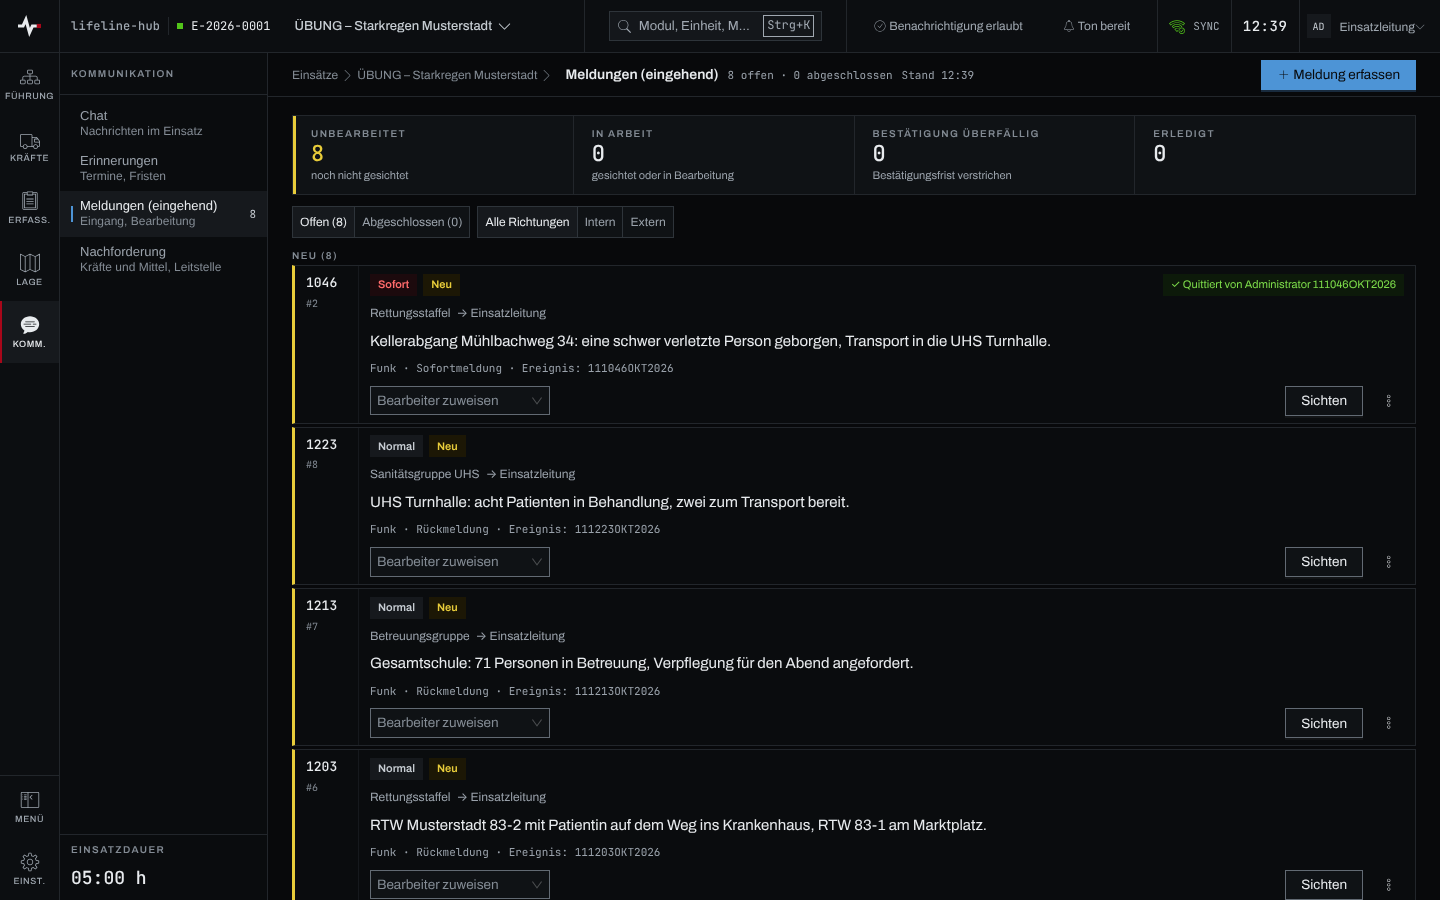
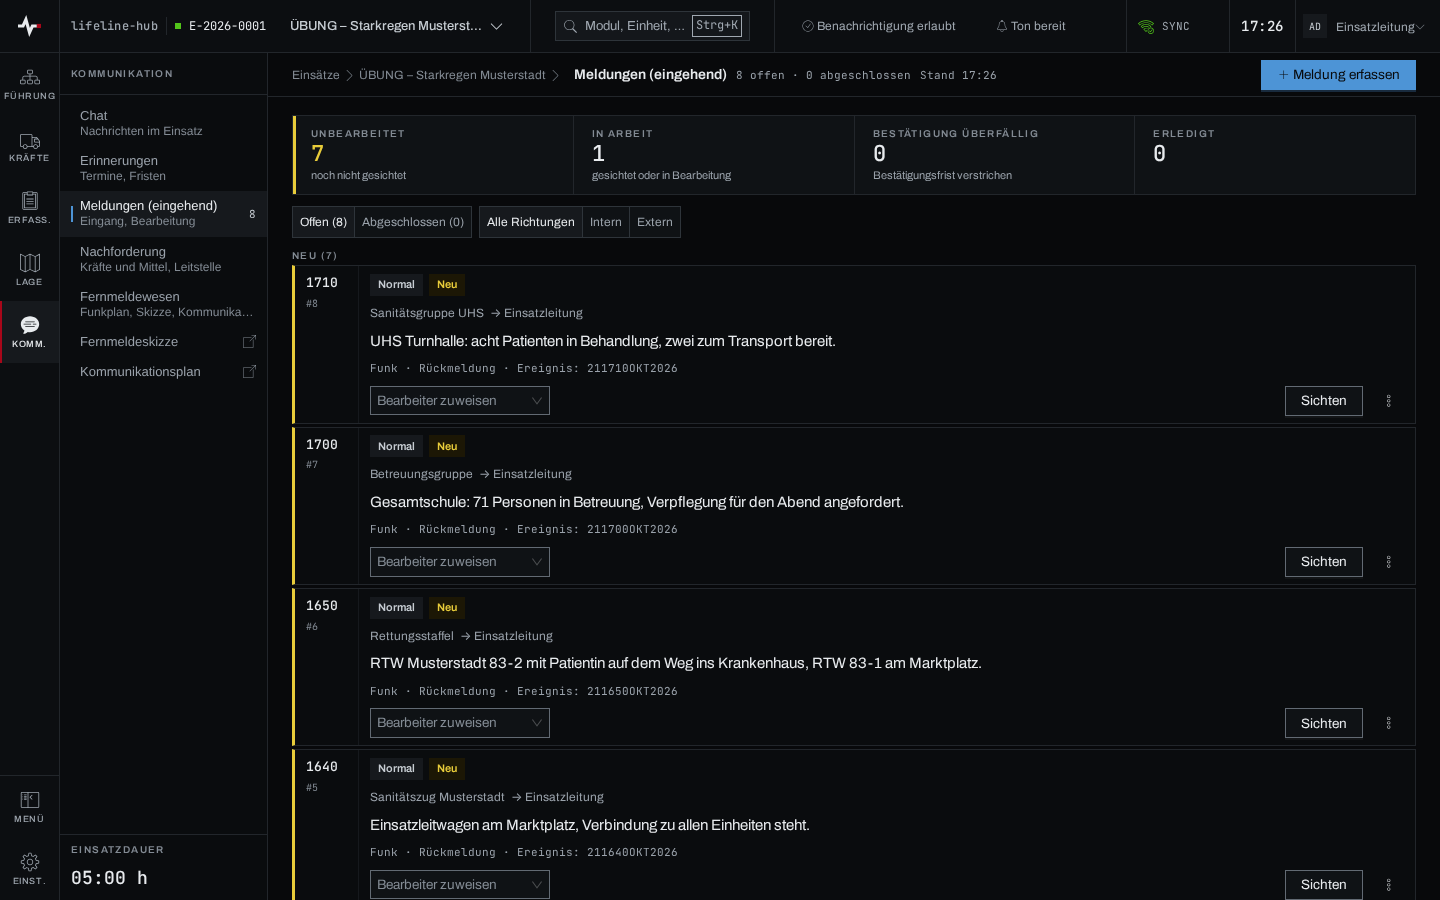
docs(meldungen): Sofortalarm mit Inhalt und Bestätigen als Sichten beschreiben
Spec `benachrichtigungen` fortgeschrieben: neue Anforderungen „Der
Sofortalarm nennt die Meldung und springt zu ihr“ und „Bestätigen
sichtet die Sofortmeldung“ (kleine Regeländerung am Meldungsmodell:
Bestätigen hebt den Status Neu auf Gesichtet, spätere Status bleiben).
Kapitel „Meldungen“ und sein Listenbild nachgezogen.

Zunder: https://zunder.rubeen.dev/#/aufgabe/y4pmjk5jq9d2wrdd59zh767k

Claude-Session: https://claude.ai/code/session_01JYs46MdbX9F79KWosBUdwf

diff --git a/docs/anwender/kapitel/meldungen.md b/docs/anwender/kapitel/meldungen.md
@@ -2,7 +2,7 @@
 titel: Meldungen
 gruppen: [alle, fuehrung]
 reihenfolge: 110
-quellen: [frontend/src/pages/MeldungenPage.tsx, frontend/src/meldungen/MeldungFormular.tsx, frontend/src/meldungen/MeldungKarte.tsx, frontend/src/meldungen/LagerelevantModal.tsx, frontend/src/pages/einheit/EinheitUebernahme.tsx, frontend/src/components/Erfassung.tsx, frontend/src/kommunikation/phase.ts, frontend/src/kommunikation/rueckgaengig.tsx, frontend/src/einsatz/AlarmZentrale.tsx, frontend/src/pages/einstellungen/EinsatzVerhalten.tsx, src/routes/meldung.rs, src/meldung/repo.rs, src/meldung/mod.rs, src/meldung/benachrichtigung.rs, src/benachrichtigung/text.rs, src/routes/auftrag.rs, src/erinnerung/benachrichtigung.rs]
+quellen: [frontend/src/pages/MeldungenPage.tsx, frontend/src/meldungen/MeldungFormular.tsx, frontend/src/meldungen/MeldungKarte.tsx, frontend/src/meldungen/LagerelevantModal.tsx, frontend/src/pages/einheit/EinheitUebernahme.tsx, frontend/src/components/Erfassung.tsx, frontend/src/kommunikation/phase.ts, frontend/src/kommunikation/rueckgaengig.tsx, frontend/src/einsatz/AlarmZentrale.tsx, frontend/src/alarm/useBenachrichtigungen.ts, frontend/src/alarm/meldungInhalt.ts, frontend/src/pages/einstellungen/EinsatzVerhalten.tsx, src/routes/meldung.rs, src/meldung/repo.rs, src/meldung/mod.rs, src/meldung/benachrichtigung.rs, src/benachrichtigung/text.rs, src/routes/auftrag.rs, src/erinnerung/benachrichtigung.rs]
 ---
 
 ## Überblick
@@ -65,12 +65,19 @@ Abschnitt“, Absender, Meldeweg, Empfängerfunktion und Empfänger stehen.
 
 Für Einsatzleitung und Führungspersonal:
 
-1. Beim Eingang einer Sofortmeldung erscheint der Alarm „Sofortmeldung eingegangen“ mit
-   „Meldung #…“; „Öffnen“ führt zur Meldung.
+1. Beim Eingang einer Sofortmeldung erscheint ein Alarm mit Absender und Anfang des Wortlauts,
+   etwa „Sofortmeldung · Rettungsstaffel“ und darunter „Kellerabgang Mühlbachweg 34: eine schwer
+   verletzte Person …“. Den ganzen Wortlaut zeigt der Zeiger über der Zeile. „Öffnen“ führt zur
+   Meldung und hebt ihre Karte hervor, ebenso ein Klick auf die Meldung des Betriebssystems.
 2. Die Karte der Sofortmeldung trägt „Bestätigung offen bis …“. An ihr „Bestätigen“ wählen und
    die Rückfrage „Sofortmeldung bestätigen?“ mit „Bestätigen“ beantworten.
 
-Die Karte zeigt danach, wer wann quittiert hat.
+Die Karte zeigt danach, wer wann quittiert hat. Wer bestätigt, hat die Meldung gesehen: eine
+neue Meldung steht danach auf „Gesichtet“ und zählt nicht mehr unter „Unbearbeitet“. Eine
+Meldung, die schon gesichtet, in Bearbeitung oder erledigt ist, behält ihre Stufe.
+
+Kommt die Meldung nicht schnell genug vom Server, steht der Alarm ohne Inhalt da:
+„Sofortmeldung eingegangen“ mit „Meldung #…“.
 
 ### Eine Meldung an die Lage übergeben
 
@@ -128,12 +135,13 @@ Minuten.
 Mit der Sofortmeldung legt die App eine automatische Erinnerung „Sofortmeldung #… unbestätigt“
 an. Läuft die Frist ab, ohne dass jemand bestätigt, wird die Meldung eskaliert: Sie rückt
 innerhalb ihrer Priorität nach oben und zählt unter „Bestätigung überfällig“, und es erscheint der
-Alarm „Bestätigung ausstehend“ mit „Meldung #…“. Mit der Bestätigung schließt die Erinnerung
+Alarm „Bestätigung ausstehend“, wie beim Eingang mit Absender und Anfang des Wortlauts. Mit
+der Bestätigung schließt die Erinnerung
 (Kapitel [Erinnerungen](erinnerungen.md)).
 
 ### Wer den Alarm bekommt
 
-Den Alarm „Sofortmeldung eingegangen“ bekommen alle, die das Modul Meldungen sehen, außer der
+Den Alarm einer neuen Sofortmeldung bekommen alle, die das Modul Meldungen sehen, außer der
 Person, die die Sofortmeldung erfasst hat. „Bestätigung ausstehend“ bekommen alle mit dem Modul,
 auch die erfassende Person. Beide kommen mit Ton und lassen sich unter „Benachrichtigungen“ nicht
 abschalten (Kapitel [Einsatz auswählen und Oberfläche](einsatz-oberflaeche.md)). Eine gewöhnliche

diff --git a/openspec/specs/benachrichtigungen/spec.md b/openspec/specs/benachrichtigungen/spec.md
@@ -101,11 +101,45 @@ Scheduler MUST erneut alarmieren, dann auch den Erfasser.
 
 #### Scenario: Neue Sofortmeldung
 - **WHEN** eine Sofortmeldung erfasst wird
-- **THEN** erhalten alle mit dem Modul Meldungen außer dem Erfasser einen Alarm „Sofortmeldung eingegangen“
+- **THEN** erhalten alle mit dem Modul Meldungen außer dem Erfasser einen Alarm; die Benachrichtigung trägt den Titel „Sofortmeldung eingegangen“
 
 #### Scenario: Eskalation
 - **WHEN** eine Sofortmeldung unbestätigt bleibt und der Scheduler sie eskaliert
 - **THEN** erhalten alle mit dem Modul Meldungen einschließlich des Erfassers einen Alarm „Bestätigung ausstehend“
+
+### Requirement: Der Sofortalarm nennt die Meldung und springt zu ihr
+
+Beide Alarme einer Sofortmeldung SHALL Absender und Anfang des Wortlauts der Meldung nennen;
+beides MUST das Frontend über die Abfrage der Meldung holen, nie über das Live-Ereignis oder den
+Text der Benachrichtigung. Antwortet die Abfrage nicht rechtzeitig, MUST der Alarm mit dem Text
+der Benachrichtigung erscheinen. „Öffnen“ und der Klick auf die OS-Meldung MUST zur Meldung
+springen und sie hervorheben.
+
+#### Scenario: Inhalt im Alarm
+- **WHEN** die Rettungsstaffel per Sofortmeldung „Kellerabgang Mühlbachweg 34: eine schwer verletzte Person geborgen“ meldet
+- **THEN** heißt der Alarm „Sofortmeldung · Rettungsstaffel“ und zeigt den Anfang des Wortlauts, höchstens 120 Zeichen, den ganzen Wortlaut im Titel-Attribut
+
+#### Scenario: Meldung nicht abrufbar
+- **WHEN** die Abfrage der Meldung scheitert oder nicht rechtzeitig antwortet
+- **THEN** erscheint der Alarm „Sofortmeldung eingegangen“ mit „Meldung #‹Nummer›“
+
+#### Scenario: Öffnen
+- **WHEN** eine Person im Alarm „Öffnen“ wählt oder die OS-Meldung anklickt
+- **THEN** steht die Meldungsseite mit `?meldung=‹id›` offen und die Karte der Meldung ist hervorgehoben
+
+### Requirement: Bestätigen sichtet die Sofortmeldung
+
+Bestätigt eine Person eine Meldung mit Bestätigungspflicht, SHALL die Meldung in derselben
+Transaktion vom Status Neu auf Gesichtet gehen: wer den Empfang bestätigt, hat sie gesehen. Ein
+späterer Status (Gesichtet, In Bearbeitung, Erledigt) MUST unverändert bleiben.
+
+#### Scenario: Neue Sofortmeldung bestätigt
+- **WHEN** eine Sofortmeldung im Status Neu bestätigt wird
+- **THEN** steht sie auf Gesichtet, trägt die Quittung und zählt nicht mehr als unbearbeitet
+
+#### Scenario: Schon in Bearbeitung
+- **WHEN** eine Sofortmeldung im Status In Bearbeitung bestätigt wird
+- **THEN** bleibt sie In Bearbeitung
 
 ### Requirement: Überfälliger Auftrag alarmiert Auftraggeber und Empfänger
 
